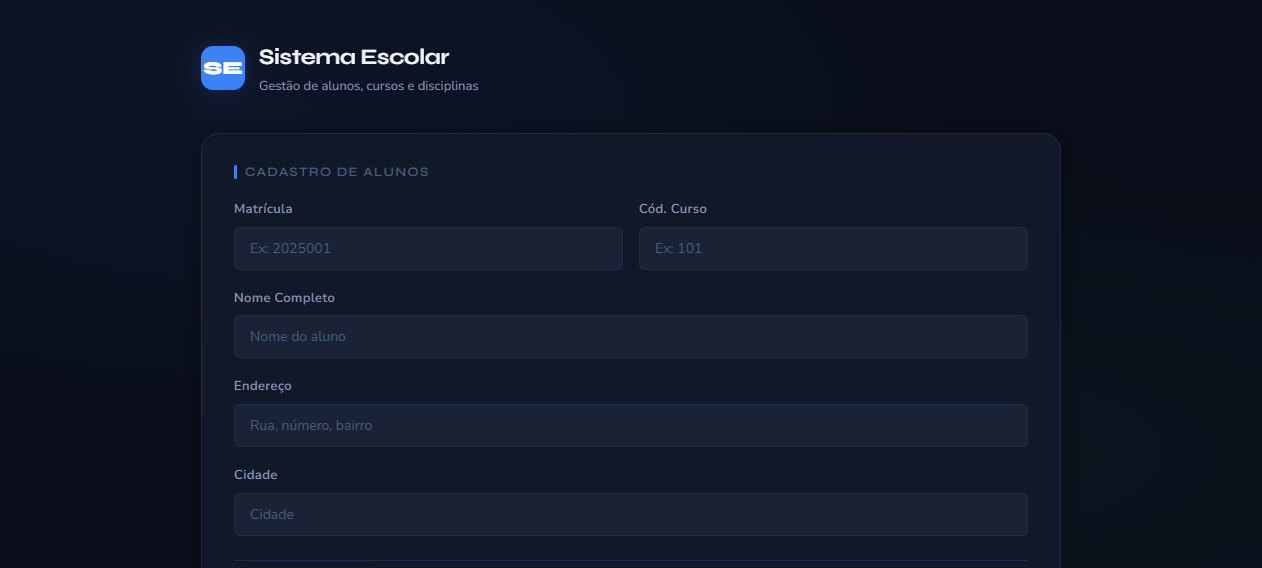
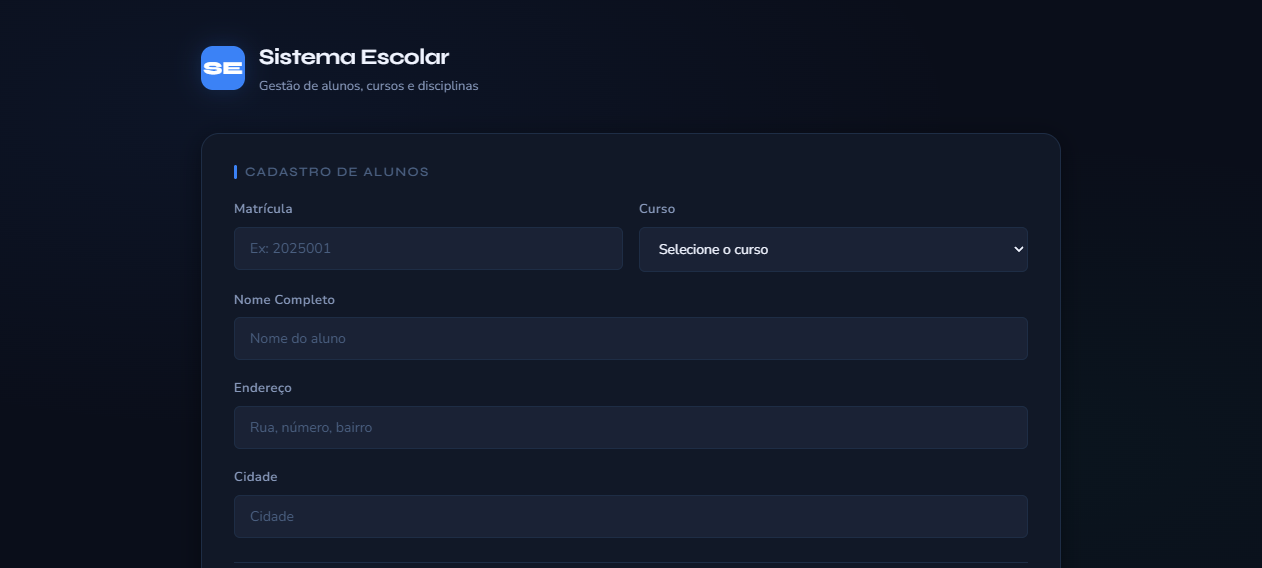
feat: listas de selecao com cursos e disciplinas do banco nos formularios

diff --git a/estilo.css b/estilo.css
@@ -205,6 +205,16 @@ body {
   color: var(--text-muted);
 }
 
+/* Listas de seleção (select) com as mesmas cores dos campos */
+select.form-input {
+  cursor: pointer;
+}
+
+select.form-input option {
+  background: var(--bg-input);
+  color: var(--text-primary);
+}
+
 .form-row {
   display: grid;
   grid-template-columns: 1fr 1fr;

diff --git a/form_curso.php b/form_curso.php
@@ -1,4 +1,22 @@
-<!DOCTYPE html>
+<?php
+include_once('conexao.php');
+
+//BUSCA AS DISCIPLINAS UMA VEZ SO E GUARDA NUM ARRAY (USADO NAS 3 LISTAS)
+$resultado   = mysqli_query($conexao, "SELECT coddisciplina, nome_disciplina FROM disciplina ORDER BY nome_disciplina");
+$disciplinas = mysqli_fetch_all($resultado, MYSQLI_ASSOC);
+mysqli_close($conexao);
+
+//MONTA AS OPCOES DE UMA LISTA DE DISCIPLINAS
+function opcoes_disciplinas($disciplinas) {
+  echo '<option value="">Selecione</option>';
+  foreach ($disciplinas as $d) {
+    echo '<option value="' . htmlspecialchars($d['coddisciplina']) . '">'
+       . htmlspecialchars($d['coddisciplina'] . ' — ' . $d['nome_disciplina'])
+       . '</option>';
+  }
+}
+?>
+<!DOCTYPE html>
 <html lang="pt-BR">
 <head>
   <meta charset="UTF-8">
@@ -41,20 +59,25 @@
         <div class="form-row">
           <div class="form-group">
             <label class="form-label">Disciplina 1</label>
-            <input class="form-input" type="text" name="coddisciplina1"
-                   placeholder="Código" required>
+            <select class="form-input" name="coddisciplina1" required>
+              <?php opcoes_disciplinas($disciplinas); ?>
+            </select>
           </div>
           <div class="form-group">
             <label class="form-label">Disciplina 2</label>
-            <input class="form-input" type="text" name="coddisciplina2"
-                   placeholder="Código" required>
+            <select class="form-input" name="coddisciplina2" required>
+              <?php opcoes_disciplinas($disciplinas); ?>
+            </select>
           </div>
         </div>
 
-        <div class="form-group">
-          <label class="form-label">Disciplina 3</label>
-          <input class="form-input" type="text" name="coddisciplina3"
-                 placeholder="Código" style="max-width: 200px;" required>
+        <div class="form-row">
+          <div class="form-group">
+            <label class="form-label">Disciplina 3</label>
+            <select class="form-input" name="coddisciplina3" required>
+              <?php opcoes_disciplinas($disciplinas); ?>
+            </select>
+          </div>
         </div>
 
         <div class="divider"></div>

diff --git a/form_aluno.php b/form_aluno.php
@@ -1,4 +1,10 @@
-<!DOCTYPE html>
+<?php
+include_once('conexao.php');
+
+//BUSCA OS CURSOS PARA PREENCHER A LISTA DE SELECAO
+$cursos = mysqli_query($conexao, "SELECT codcurso, nome FROM curso ORDER BY nome");
+?>
+<!DOCTYPE html>
 <html lang="pt-BR">
 <head>
   <meta charset="UTF-8">
@@ -22,7 +28,7 @@
 
       <form action="cadalunos.php" method="POST">
 
-        <!-- Linha com matrícula e código do curso lado a lado -->
+        <!-- Linha com matrícula e curso lado a lado -->
         <div class="form-row">
           <div class="form-group">
             <label class="form-label">Matrícula</label>
@@ -31,9 +37,17 @@
                    placeholder="Ex: 2025001" required>
           </div>
           <div class="form-group">
-            <label class="form-label">Cód. Curso</label>
-            <input class="form-input" type="text" name="codcurso"
-                   placeholder="Ex: 101" required>
+            <label class="form-label">Curso</label>
+            <!-- Lista preenchida com os cursos do banco; envia o codigo do curso escolhido -->
+            <select class="form-input" name="codcurso" required>
+              <option value="">Selecione o curso</option>
+              <?php while ($curso = mysqli_fetch_assoc($cursos)): ?>
+              <option value="<?php echo htmlspecialchars($curso['codcurso']); ?>">
+                <?php echo htmlspecialchars($curso['codcurso'] . ' — ' . $curso['nome']); ?>
+              </option>
+              <?php endwhile; ?>
+            </select>
+            <?php mysqli_close($conexao); ?>
           </div>
         </div>
 

diff --git a/cadalunos.php b/cadalunos.php
@@ -1,7 +1,7 @@
 <?php
 //SE A PAGINA FOR ABERTA SEM ENVIAR O FORMULARIO, VOLTA PARA O FORMULARIO
 if ($_SERVER['REQUEST_METHOD'] !== 'POST') {
-  header('Location: cadalunos.html');
+  header('Location: form_aluno.php');
   exit;
 }
 
@@ -71,7 +71,7 @@ mysqli_close($conexao);
     </div>
     <div class="divider"></div>
     <div class="btn-group">
-      <a href="cadalunos.html" class="btn btn-primary">Cadastrar Outro</a>
+      <a href="form_aluno.php" class="btn btn-primary">Cadastrar Outro</a>
       <a href="index.php" class="btn btn-ghost">Voltar ao Menu</a>
     </div>
   </div>

diff --git a/cadcursos.php b/cadcursos.php
@@ -1,7 +1,7 @@
 <?php
 //SE A PAGINA FOR ABERTA SEM ENVIAR O FORMULARIO, VOLTA PARA O FORMULARIO
 if ($_SERVER['REQUEST_METHOD'] !== 'POST') {
-  header('Location: cadcurso.html');
+  header('Location: form_curso.php');
   exit;
 }
 
@@ -71,7 +71,7 @@ mysqli_close($conexao);
     </div>
     <div class="divider"></div>
     <div class="btn-group">
-      <a href="cadcurso.html" class="btn btn-primary">Cadastrar Outro</a>
+      <a href="form_curso.php" class="btn btn-primary">Cadastrar Outro</a>
       <a href="index.php" class="btn btn-ghost">Voltar ao Menu</a>
     </div>
   </div>

diff --git a/index.php b/index.php
@@ -25,7 +25,7 @@
       <div class="card-title">Cadastros</div>
       <div class="menu-grid">
 
-        <a href="cadalunos.html" class="menu-link">
+        <a href="form_aluno.php" class="menu-link">
           <span class="icon">👤</span>
           <div>
             <div>Alunos</div>
@@ -33,7 +33,7 @@
           </div>
         </a>
 
-        <a href="cadcurso.html" class="menu-link">
+        <a href="form_curso.php" class="menu-link">
           <span class="icon">🎓</span>
           <div>
             <div>Cursos</div>

diff --git a/README.md b/README.md
@@ -121,10 +121,10 @@ sistema-escolar/
 ├── config.example.php          # Modelo das credenciais (copiar para config.php)
 ├── index.php                   # Menu principal
 │
-├── cadalunos.html              # Formulário de cadastro de alunos
+├── form_aluno.php              # Formulário de cadastro de alunos (lista de cursos vem do banco)
 ├── cadalunos.php               # Processa o cadastro de alunos
 │
-├── cadcurso.html               # Formulário de cadastro de cursos
+├── form_curso.php              # Formulário de cadastro de cursos (lista de disciplinas vem do banco)
 ├── cadcursos.php               # Processa o cadastro de cursos
 │
 ├── caddisciplina.html          # Formulário de cadastro de disciplinas
